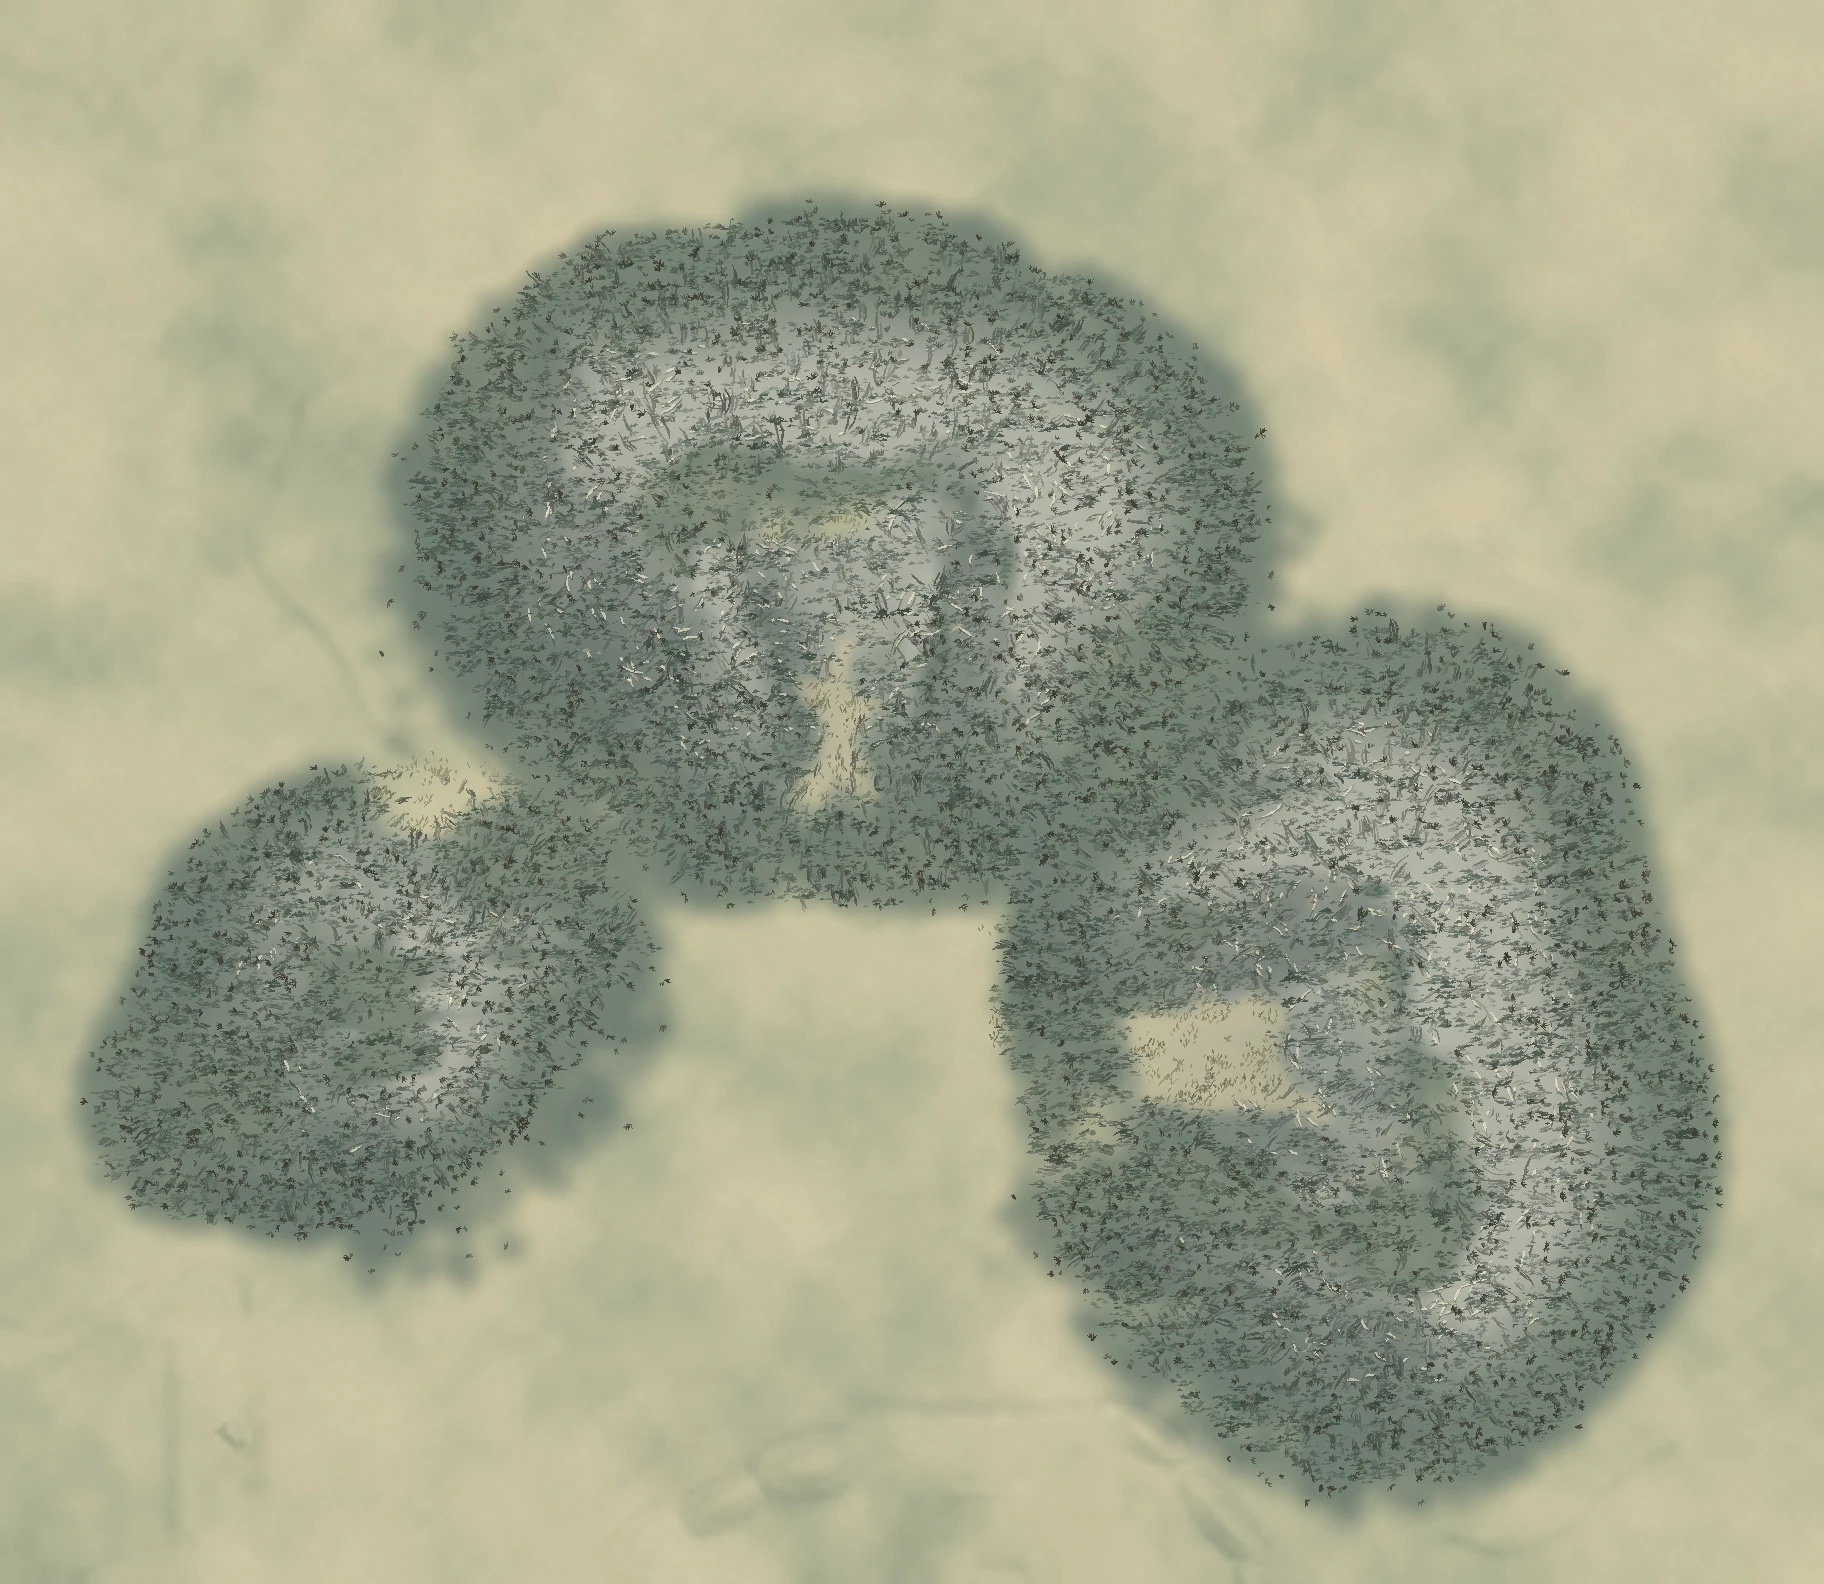
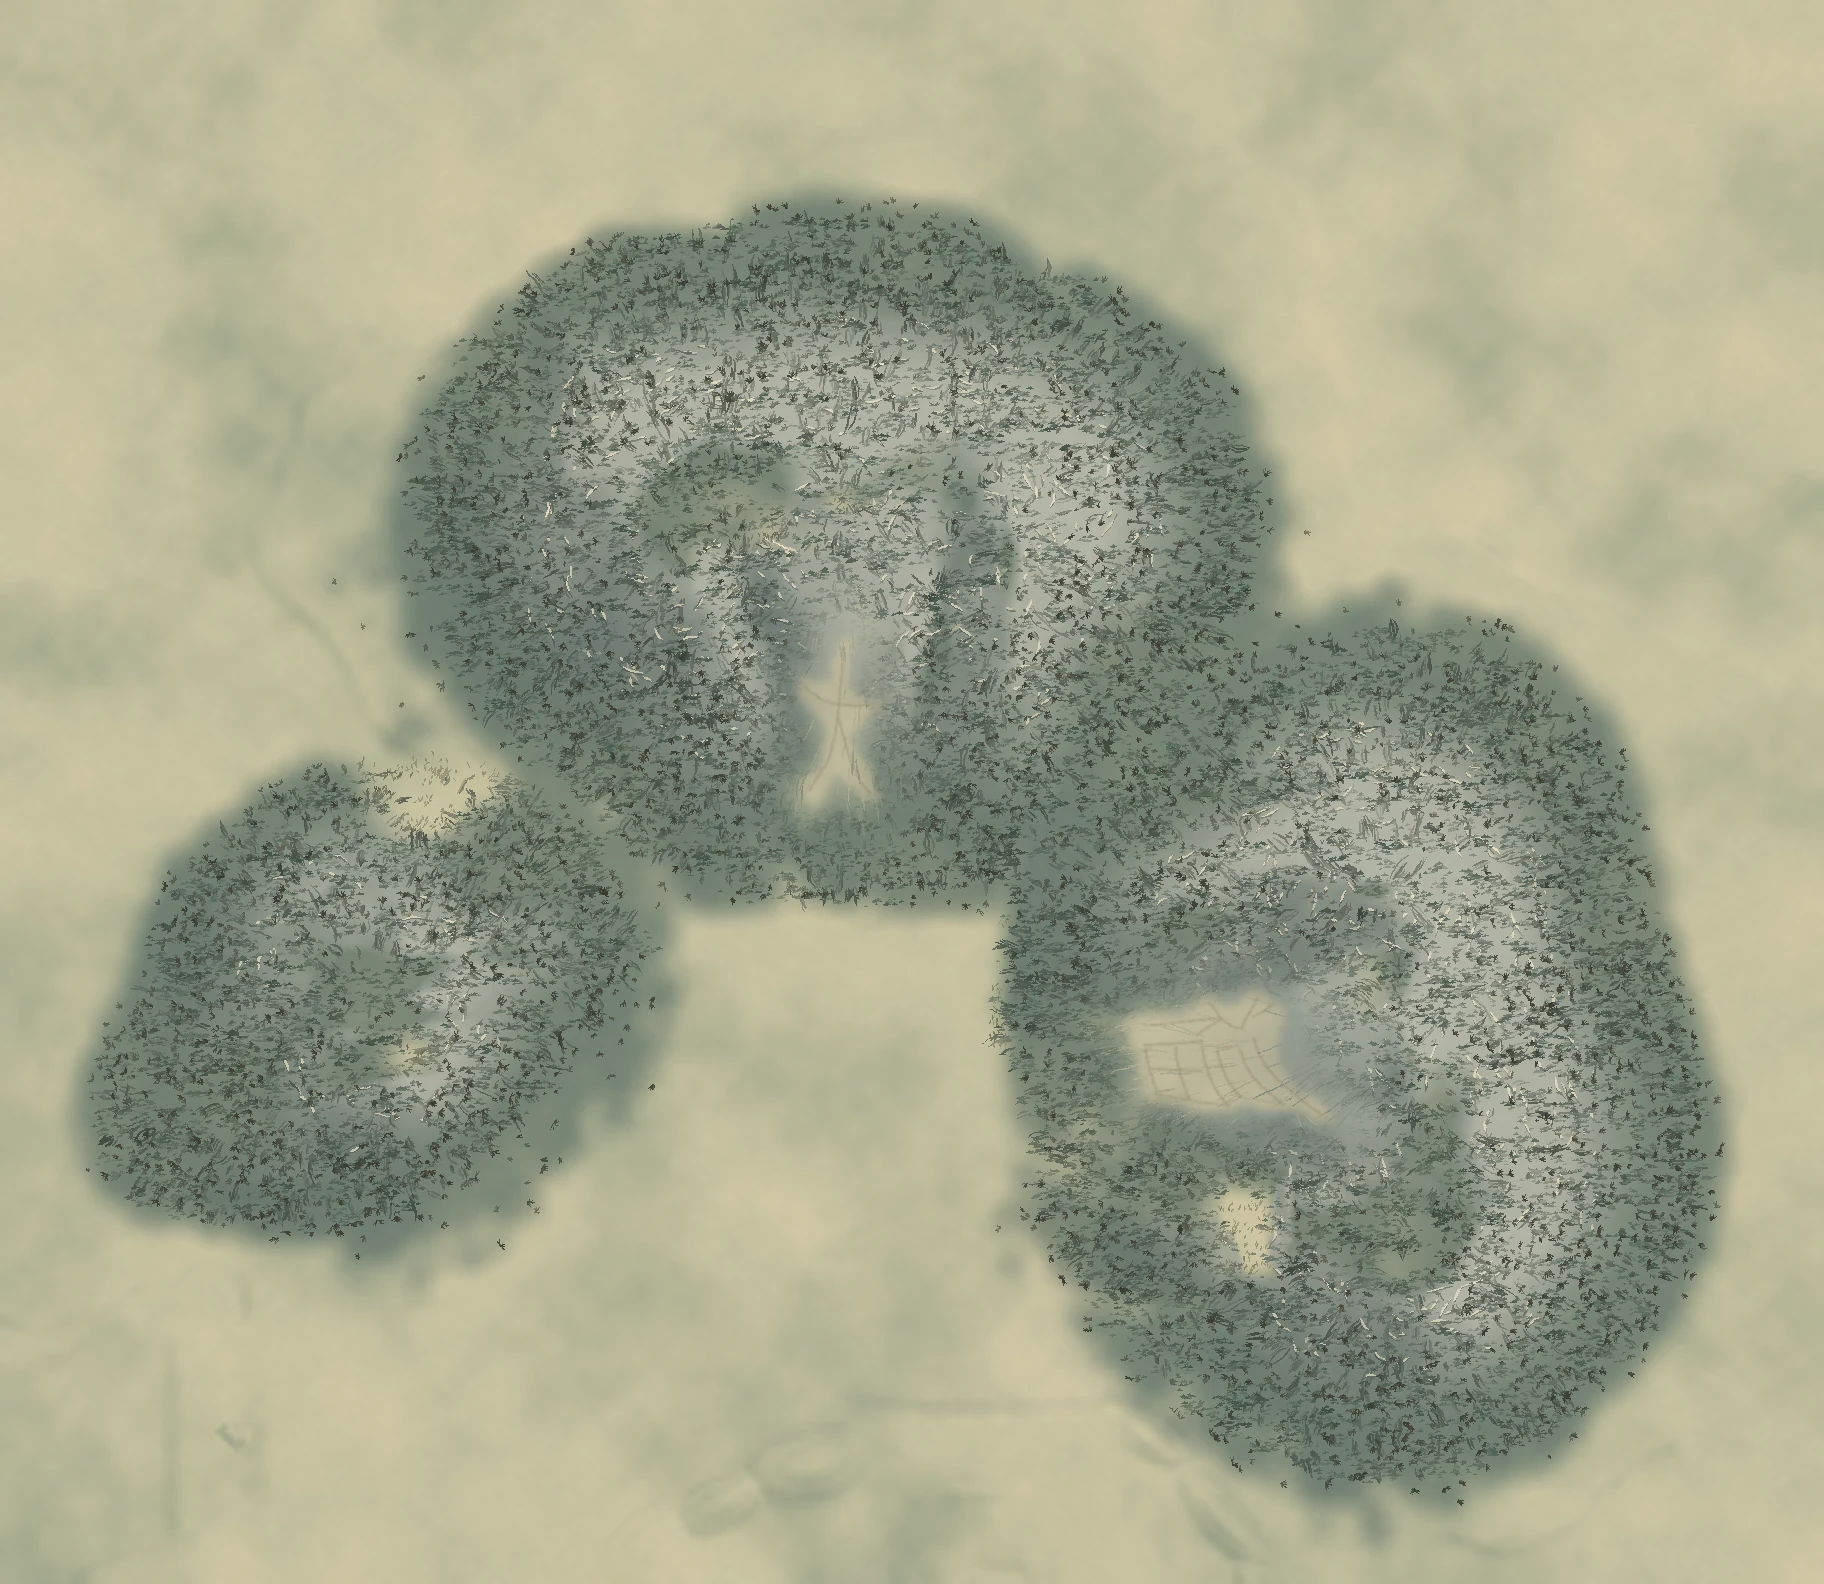
Paint the okuribi clearings in soft washes and preserve distant views of Kyoto

diff --git a/two/mountain-fires.js b/two/mountain-fires.js
@@ -57,14 +57,19 @@ function groundLight(hearths) {
   const mat=new THREE.ShaderMaterial({
     transparent:true,depthWrite:false,
     polygonOffset:true,polygonOffsetFactor:-2,uniforms:{intensity:{value:0}},
-    vertexShader:`varying vec2 washUv;void main(){washUv=uv*2.-1.;gl_Position=projectionMatrix*modelViewMatrix*vec4(position,1.);}`,
-    fragmentShader:`varying vec2 washUv;uniform float intensity;void main(){
+    vertexShader:`varying vec2 washUv;varying float charcoal;void main(){
+      vec4 view=modelViewMatrix*vec4(position,1.);
+      washUv=uv*2.-1.;
+      charcoal=1.-smoothstep(18.,66.,length(view.xyz));
+      gl_Position=projectionMatrix*view;
+    }`,
+    fragmentShader:`varying vec2 washUv;varying float charcoal;uniform float intensity;void main(){
       float radius=dot(washUv,washUv);
       float glow=pow(max(0.,1.-radius),2.5);
       // The same ground darkens with old charcoal when the stack is cold.
       float ash=1.-smoothstep(.21,.57,radius+.045*sin(13.*washUv.x+4.*washUv.y));
       vec3 tint=mix(vec3(.08,.066,.049),vec3(.95,.27,.055),intensity);
-      gl_FragColor=vec4(tint,mix(.31*ash,.40*glow,intensity));
+      gl_FragColor=vec4(tint,mix(.31*ash*charcoal,.40*glow,intensity));
       #include <colorspace_fragment>
     }`,
   });
@@ -132,7 +137,11 @@ export function mountainFires(scene,hearths,cx,cz,east=false) {
         float hot=tongue(p,.009,.098,.32-flutter*.46,wick+1.);
         vec3 emission=mix(vec3(.92,.095,.012),vec3(1.,.44,.042),clamp(amber*.87+plume*.18,0.,1.));
         emission=mix(emission,vec3(1.,.865,.39),hot);
-        float halo=.27*exp(-length((p-vec2(.005,.20))*vec2(2.6,1.22))*5.7);
+        // Feather the reflected glow to zero before the billboard ends.
+        // The foot of the flame can fill the frame beside a hearth.
+        vec2 edge=min(flameUv,1.-flameUv);
+        float halo=.27*exp(-length((p-vec2(.005,.20))*vec2(2.6,1.22))*5.7)
+          *smoothstep(0.,.12,min(edge.x,edge.y));
         // Wind lifts an ember from each stack on a different beat.
         float age=fract(clock*.55+wick*.413);
         vec2 spark=p-vec2(.10*sin(7.*age+wick)*age,.31+.66*age);

diff --git a/two/index.html b/two/index.html
@@ -76,7 +76,7 @@
           "./mochi-model.js": "./mochi-model.js?v=chaya-wildlife-1",
           "./mochi-pounding.js": "./mochi-pounding.js?v=3.3",
           "./ground-print.js": "./ground-print.js?v=emaki-landscape-1",
-          "./pigments.js": "./pigments.js?v=okuribi-forest-1",
+          "./pigments.js": "./pigments.js?v=okuribi-wash-1",
           "./places.js": "./places.js?v=3.3",
           "./predator-trails.js": "./predator-trails.js?v=6.2",
           "./preparation.js": "./preparation.js?v=3.3",
@@ -159,7 +159,7 @@
           "./seaports.js": "./seaports.js?v=emaki-landscape-1",
           "./tidal-reefs.js": "./tidal-reefs.js?v=kyoto-foothills-1",
           "./higashiyama.js": "./higashiyama.js?v=otowa-forest-1",
-          "./mountain-fires.js": "./mountain-fires.js?v=okuribi-forest-1",
+          "./mountain-fires.js": "./mountain-fires.js?v=okuribi-wash-1",
           "./street-watch-layout.js": "./street-watch-layout.js?v=kyoto-foothills-1",
           "./street-watch.js": "./street-watch.js?v=kyoto-foothills-1-otowa-1",
           "./rashomon-stone.js": "./rashomon-stone.js?v=rashomon-stone-1",

diff --git a/two/pigments.js b/two/pigments.js
@@ -6,7 +6,7 @@ import { groundImpressions } from './scroll-paper.js';
 import * as THREE from './vendor/three.module.min.js';
 
 const asset = (name) => new URL('./assets/world/' + name + '.webp' +
-  (name === 'kyo-hills' ? '?v=okuribi-forest-1' : ''), import.meta.url).href;
+  (name === 'kyo-hills' ? '?v=okuribi-wash-1' : ''), import.meta.url).href;
 const paint = (color) => new THREE.Color(color);
 
 export function loadPigments() {

diff --git a/tools/paint-kyo-hills.py b/tools/paint-kyo-hills.py
@@ -10,14 +10,16 @@ from PIL import Image, ImageDraw, ImageFilter
 ROOT = Path(__file__).resolve().parent.parent
 survey = """
 import {terrainHeight,TREES} from './two/terrain.js';
-import {KYO_HILL_SHEET as box,kyoRidgeHeight,inFireMeadow} from './two/higashiyama.js';
-const heights=[],rises=[],mown=[];
+import {KYO_HILL_SHEET as box,kyoRidgeHeight,inFireMeadow,fukuFirebeds,daiFirebeds} from './two/higashiyama.js';
+const heights=[],rises=[],mown=[],verge=[];
 for(let z=box.z;z<=box.z+box.depth;z+=4)for(let x=box.x;x<=box.x+box.width;x+=4) {
   heights.push(Math.round(terrainHeight(x,z)*10));
   rises.push(Math.round(kyoRidgeHeight(x,z)*10));
   mown.push(+inFireMeadow(x,z));
+  verge.push(+inFireMeadow(x,z,28));
 }
-console.log(JSON.stringify({box,heights,rises,mown,trees:TREES.filter(t=>t.kyotoRidge || kyoRidgeHeight(t.x,t.z)>.5)
+console.log(JSON.stringify({box,heights,rises,mown,verge,fires:[fukuFirebeds(terrainHeight),daiFirebeds(terrainHeight)],
+  trees:TREES.filter(t=>t.kyotoRidge || kyoRidgeHeight(t.x,t.z)>.5)
   .map(t=>[t.x,t.z,t.h,t.kind])}));
 """
 data=json.loads(subprocess.check_output(['node','--input-type=module','-e',survey],cwd=ROOT))
@@ -153,5 +155,49 @@ for x,z,tall,kind in data['trees']:
         if reach>4.8:
             brush([arc[1],(u+.55*dx0+dy0*.24,v+.55*dy0-dx0*.24),
                    (u+.78*dx0+dy0*.36,v+.78*dy0-dx0*.36)],ppm*.23,tint(u,v,(75,72,55),.48))
+
+# The short, cut grass around the fires reads as a single wash from Kyoto.
+# Let the uncut woodland slowly take over again beyond the bank. These masks
+# follow both surveyed clearings, including the gaps between the arms of 大.
+reserve=blurred(scale_grid(field('verge')),11*ppm)*(1-.52*grove)
+woodland=im
+im=Image.fromarray(np.uint8(np.clip(paper,0,255)))
+draw=ImageDraw.Draw(im)
+# A few fine, tapering strokes turn with the fall line. Trace each bend
+# from the survey so the marks follow the changing aspect of its hill.
+for _ in range(8500):
+    x,y=rng.randrange(w),rng.randrange(h)
+    if reserve[y,x]<.04 or sample(slope,x,y)<.17:continue
+    strands=1 if rng.random()<.72 else 2
+    for strand in range(strands):
+        px=x+strand*rng.uniform(1.6,3.5)*ppm
+        py=y+strand*rng.uniform(.8,2.4)*ppm
+        reach=rng.uniform(10,25)*ppm
+        sweep=rng.uniform(-.22,.22)
+        path=[(px,py)]
+        for j in range(9):
+            aspect=math.atan2(-sample(dz,px,py),-sample(dx,px,py))
+            turn=aspect+sweep*math.sin(j*math.pi/8)
+            px+=math.cos(turn)*reach/9
+            py+=math.sin(turn)*reach/9
+            path.append((px,py))
+        brush(path,ppm*rng.uniform(.25,.48),tint(x,y,(89,101,83),rng.uniform(.055,.125)))
+im=Image.composite(im,woodland,Image.fromarray(np.uint8(reserve*255)))
+
+# The ground between neighbouring hearths is worn to a thin ribbon of earth.
+# This remains legible when the tiny stones and charcoal disappear into the
+# distance. Leave pen lifts and the counters of 福 open.
+tread=Image.new('L',(w,h))
+tracks=ImageDraw.Draw(tread)
+for hearths in data['fires']:
+    last=None
+    for x,_,z in hearths:
+        at=((x-box['x'])*ppm,(z-box['z'])*ppm)
+        if last and math.dist(last,at)<7*ppm:
+            tracks.line([last,at],fill=255,width=round(1.65*ppm))
+        last=at
+earth=np.asarray(tread.filter(ImageFilter.GaussianBlur(.69*ppm)),dtype=np.float32)/255
+colour=wash(np.asarray(im,dtype=np.float32),[138,127,101],earth*.48)
+im=Image.fromarray(np.uint8(colour))
 
 im.save(ROOT/'two/assets/world/kyo-hills.webp',quality=90,method=6)
